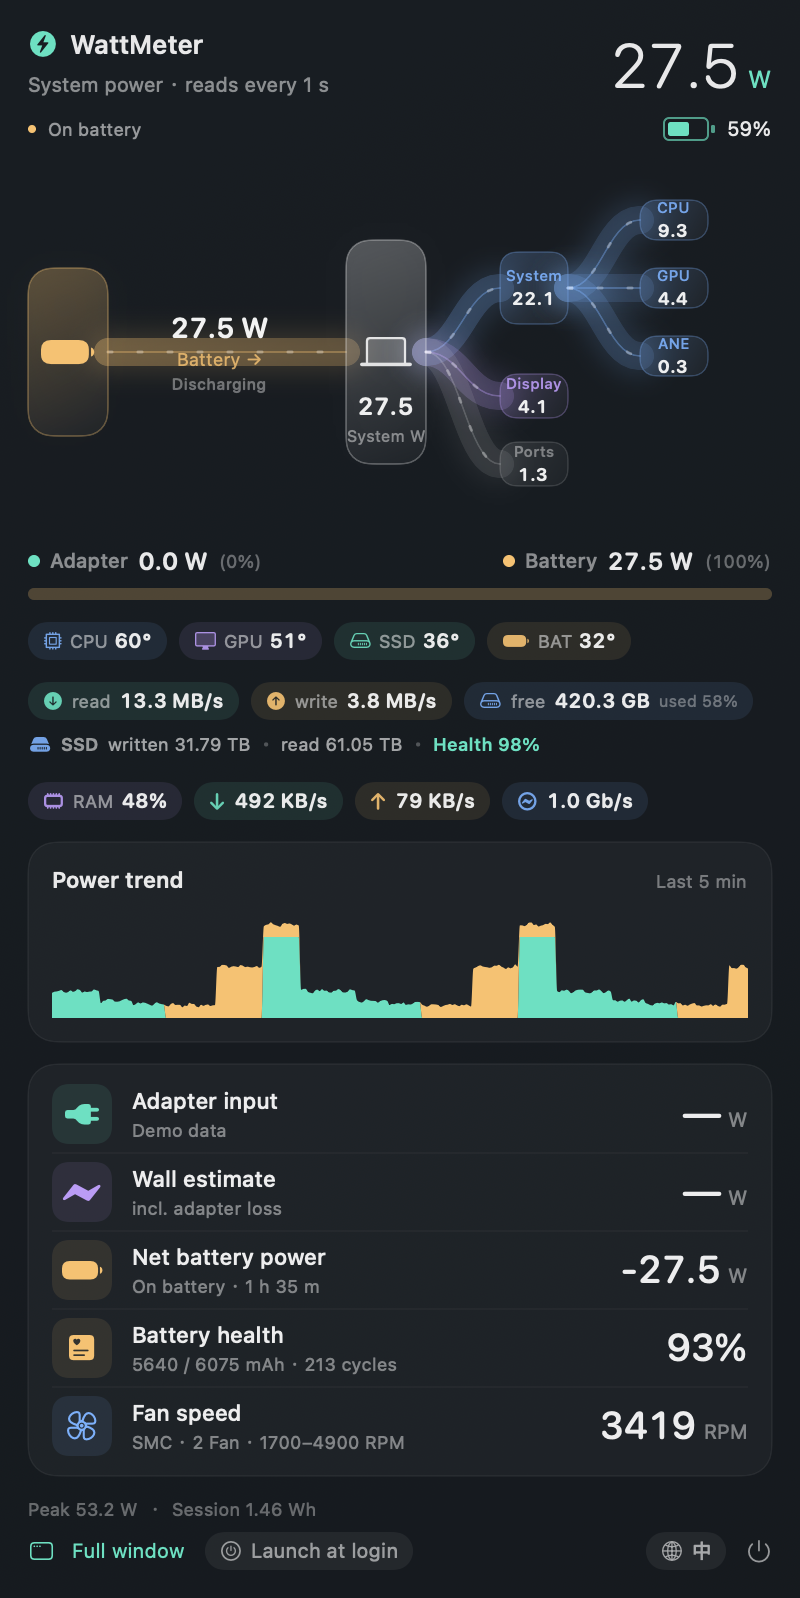
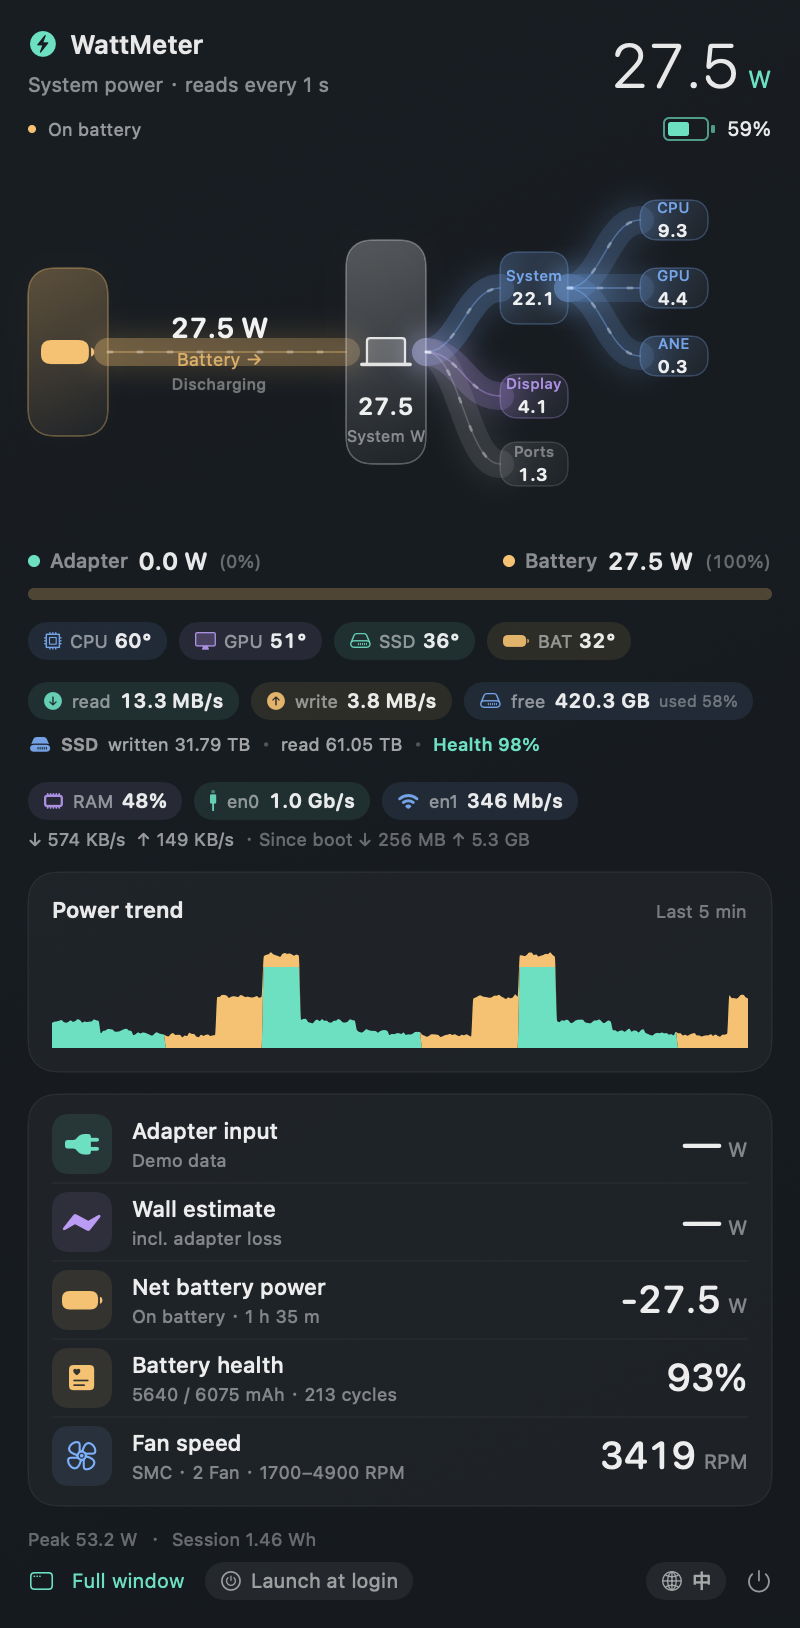
release: 1.7.1 (notes + panel previews)

diff --git a/docs/release-notes-1.7.1.md b/docs/release-notes-1.7.1.md
@@ -1,0 +1,118 @@
+# WattMeter 1.7.1
+
+A native macOS menu-bar power monitor: live power (adapter input by default), adapter vs battery
+split, CPU / GPU / ANE / DRAM power, temperatures, fan speed, battery health, disk / SSD SMART,
+memory, network and a Sankey-style power-flow diagram.
+
+## New
+
+### Memory usage
+
+Read with `host_statistics64` (same source as Activity Monitor):
+
+- **used %** = (App + Wired + Compressed) ÷ physical memory
+- **used / total** in binary units, so a 16 GB Mac reads `16.0 GB`
+- swap usage when swap is in use
+
+### Network: one row per connection
+
+Every **connected** interface is listed separately, not merged into a single number — a MacBook with
+Ethernet and Wi-Fi shows both:
+
+```
+en0  1.0 Gb/s   ↓ 374 KB/s  ↑ 449 KB/s
+en1  346 Mb/s   ↓ 135 KB/s  ↑ 19 KB/s
+Since boot      ↓ 256 MB    ↑ 5.3 GB
+```
+
+Per interface: **link speed** (Ethernet / Wi-Fi PHY rate from `if_baudrate`), **download / upload
+rate** (per-second delta of the kernel's 64-bit counters) and the **type** (Wi-Fi vs Ethernet, from
+`IOUserNetworkWLAN` on Apple Silicon and `IO80211Interface` on Intel). The aggregate since-boot
+in / out is shown on its own line, and the tooltip lists every interface with its own totals.
+
+Only `en*` interfaces with an address are counted; VPN (`utun*`), AirDrop (`awdl0`, `llw0`) and
+bridges are excluded so traffic is not double-counted.
+
+Where it shows up:
+
+- **Menu bar panel**: RAM chip plus one chip per connection (`en0 1.0 Gb/s`, `en1 346 Mb/s`) and a
+  line with the aggregate rates and since-boot traffic (panel 800 → 816 pt).
+- **Main window**: “Memory / network” card with one row per interface.
+- **Menu bar tooltip**: every interface with rates and totals.
+- **About → Copy diagnostics** includes memory, network and SSD sections.
+
+### Diagnostics
+
+```bash
+/Applications/WattMeter.app/Contents/MacOS/WattMeter --system
+```
+
+prints memory (with App / Wired / Compressed / swap), every connected interface with link speed,
+1-second rates and since-boot totals.
+
+## Also included since 1.2.2
+
+Everything from 1.3.x–1.6.0: menu bar shows adapter input (metric switchable), self-healing status
+item, battery health with full-charge / design capacity and cycle count, disk throughput, SSD SMART
+lifetime writes / reads / health, split line-chart Y domain, About window, flow diagram with
+CPU / GPU / ANE / DRAM branches, English-primary UI with Chinese available, launch at login,
+macOS 13+ universal binary.
+
+## Requirements
+
+- **macOS 13 or later** (macOS 13 / 14 / 15 and newer)
+- **Apple Silicon (M-series) or Intel Mac** — universal binary (`arm64` + `x86_64`)
+- No root, no kernel extension, no network access; the app only reads IOKit / SMC / sysctl
+
+## Install
+
+1. Download **WattMeter-1.7.1.dmg** and open it.
+2. Drag **WattMeter.app** into Applications, eject.
+3. First launch: right-click → Open (ad-hoc signed), or
+   `xattr -dr com.apple.quarantine /Applications/WattMeter.app`
+
+## 简体中文
+
+### 新增：内存使用率
+
+用 `host_statistics64` 读取（与活动监视器同源）：使用率 =（App + Wired + Compressed）÷ 物理内存；
+已用 / 总量用 1024 进制显示（16 GB 机型显示 `16.0 GB`）；有交换区时显示交换用量。
+
+### 新增：网络按「每种连接方式」分别显示
+
+不再把所有网卡合并成一个数字 —— 同时接了以太网和 Wi-Fi 的 MacBook 会分别列出来：
+
+```
+en0  1.0 Gb/s   ↓ 374 KB/s  ↑ 449 KB/s
+en1  346 Mb/s   ↓ 135 KB/s  ↑ 19 KB/s
+开机以来        ↓ 256 MB    ↑ 5.3 GB
+```
+
+每个接口显示：**连接速率**（以太网 / Wi-Fi 的 `if_baudrate`）、**下载 / 上传速率**
+（内核 64 位计数器的每秒增量）、**类型**（Apple Silicon 走 `IOUserNetworkWLAN`、Intel 走
+`IO80211Interface` 判断 Wi-Fi）。开机以来的累计流量单独一行，tooltip 里每个接口都有各自的累计量。
+
+只统计「已连接（有地址）的 en* 接口」；VPN（`utun*`）、AirDrop（`awdl0` / `llw0`）、桥接接口不计入，
+避免重复计数。
+
+显示位置：
+
+- **菜单栏面板**：内存徽章 + 每种连接一个徽章（`en0 1.0 Gb/s`、`en1 346 Mb/s`），下面一行是合计速率
+  与开机以来的流量（面板 800 → 816）；
+- **主窗口**：「内存 / 网络」卡片，每个接口一行；
+- **菜单栏 tooltip**：逐接口列出速率与累计；
+- **关于 → 复制诊断信息**：包含内存、网络、SSD 三部分。
+
+### 诊断命令
+
+```bash
+/Applications/WattMeter.app/Contents/MacOS/WattMeter --system
+```
+
+输出内存（App / Wired / Compressed / 交换）、每个已连接接口的连接速率、1 秒速率与开机以来流量。
+
+### 同时包含 1.2.2 以来的全部更新
+
+包括 1.3.x–1.6.0 的全部内容：菜单栏默认显示电源输入并可切换口径、状态项自愈、电池健康度、
+磁盘读写速率、SSD SMART、折线图 Y 轴同时覆盖两条曲线、关于窗口、流向图 CPU / GPU / ANE / DRAM
+分项、界面以英文为主可切中文、登录时启动、macOS 13+ 通用二进制。
